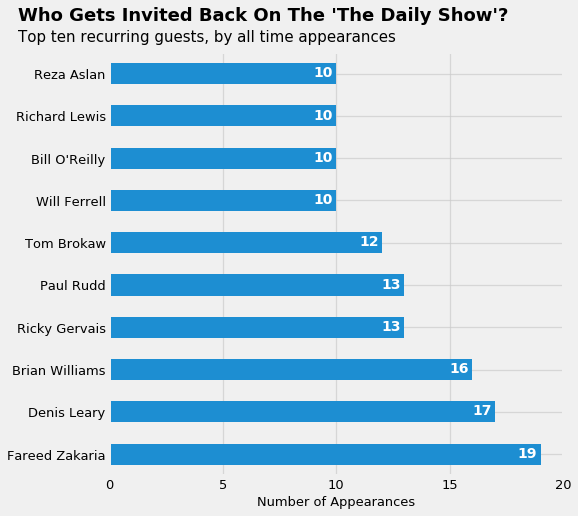
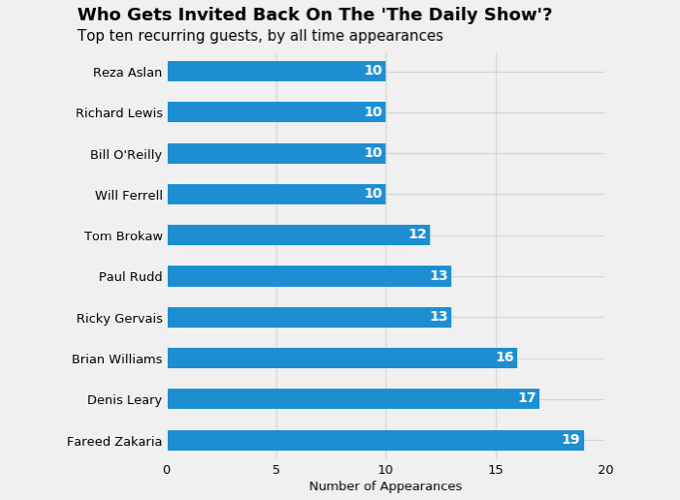
Updated formatting

diff --git a/content/post/visualization/index.md b/content/post/visualization/index.md
@@ -24,16 +24,19 @@ There are myriad routes to creating compelling visualizations with countless tex
 Tufte continues to list a number of guiding principles that support the ideal of presenting cmoplex ideas with clarity, precision, and efficiency. Tranlating Tufte's ideals to practice I use the following tactical list as a baseline checklist for creating presentable visualizations: 
 
 **The data**
+
 - Place data labels inline whenever possible (avoid legends)
 - Match the data's color and label
 - Ensure it is easy to compare across data sets (horitzontal bars > vertical bars)
 
 **The axes**
+
 - Label x and y axes with a description 
 - Include units in the x and y axis tick labels
 - Avoid non-zero y-axis minimums (or x-axis if horizontal bars)
 
 **The figure**
+
 - Adopt a descriptive title for the chart
 - Create high color contrast to draw attention to the data
 - Ensure the visualization can stand on its own
@@ -142,6 +145,7 @@ ax.text(x=-4,
 ### The Data
 
 At this point it is helpful to recall the three rules for presentable data: 
+
 - Place data labels inline whenever possible (avoid legends)
 - Match the data's color and label (if applicable)
 - Ensure it is easy to compare across data sets (horitzontal bars > vertical bars)
@@ -247,9 +251,9 @@ plt.show()
 ```
 
 
-![png](output_20_0.png)
+![png](featured.png)
 
 
-## Wrapping Up
+### Wrapping Up
 
 In this essay, we covered the basic principles of creating visualizations. Further, we experimented with a process to quickly build a minimum viable visualization and then, if necessary, use our principles to transform our minimum viable visuallization into a presentable visualization. 
